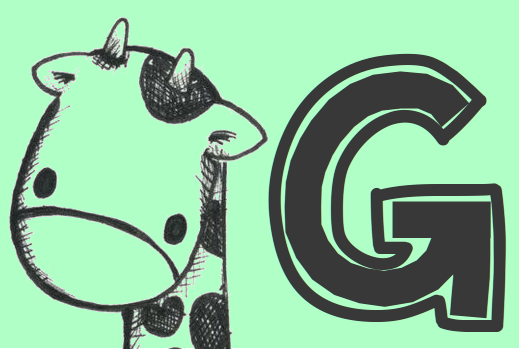
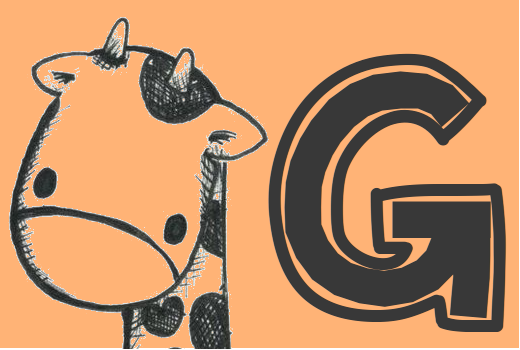
New visual identity
Giraffe colors

diff --git a/app/assets/stylesheets/application.scss b/app/assets/stylesheets/application.scss
@@ -3,9 +3,9 @@
 @import 'bootstrap';
 @import 'buttons';
 
-$banner-bg: #AFFFC6;
+$banner-bg: #FFB376;
 $bg: #F9FFC5;
-$banner-border: #467146;
+$banner-border: #806523;
 
 .site-logo {
   height: 100px;
@@ -14,15 +14,21 @@ $banner-border: #467146;
 .banner {
   background-color: $banner-bg;
   width: 100%;
-  border-bottom: 2px dashed $banner-border;
+  margin-bottom: 30px;
+  border-bottom: 6px dashed $banner-border;
 }
 
 .vcenter {
   left: 50%;
   top: 50%;
-  margin-top: 32px;
+  margin-top: calc(100% - height);
 }
 
 body {
   background-color: $bg;
+}
+
+h1 {
+  font-family: 'KBDunkTank';
+  font-size: 5em;
 }

diff --git a/app/assets/stylesheets/buttons.scss b/app/assets/stylesheets/buttons.scss
@@ -2,9 +2,22 @@ $white: #FFFFFF;
 $white-transparency-2: rgba(0, 0, 0, 0.2%);
 $facebook-blue: #3B5998;
 $facebook-dark-blue: #2D4373;
+$red-danger: #E21F00;
+
 .btn-facebook {
   color: $white;
   background-color: $facebook-blue;
   border-color: $white-transparency-2;
-  height: 50%;
+}
+
+.btn-signout {
+  color: $white;
+  background-color: $red-danger;
+}
+
+.sign-out-icon {
+  max-width: 50px;
+  max-height: 100px;
+  height: auto;
+  width: auto;
 }
